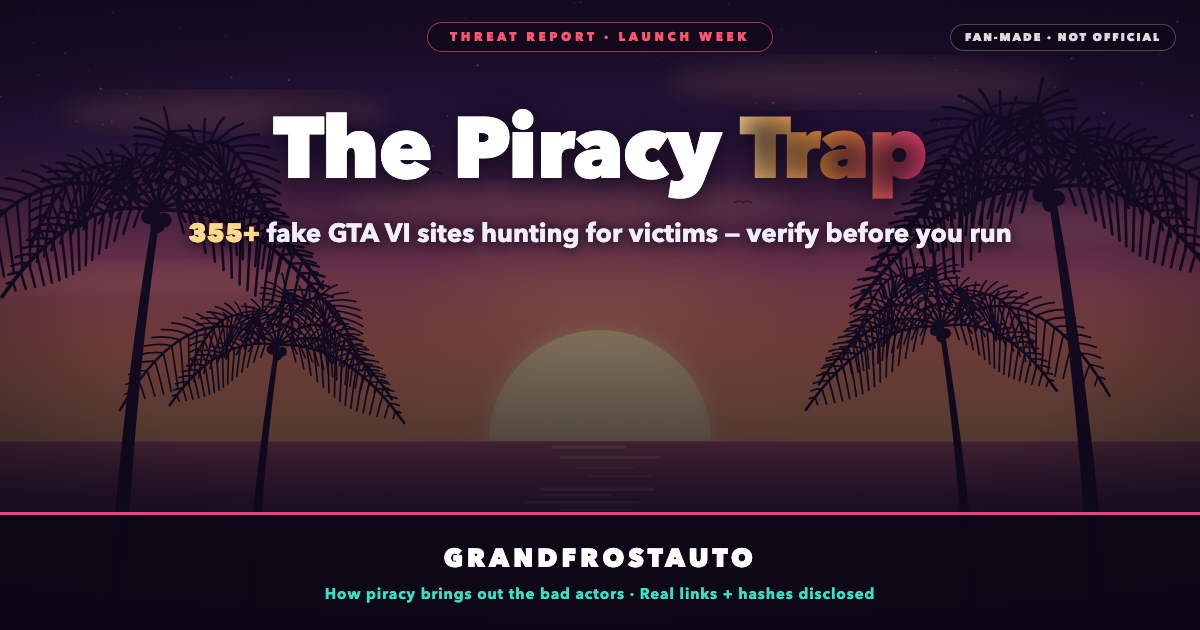
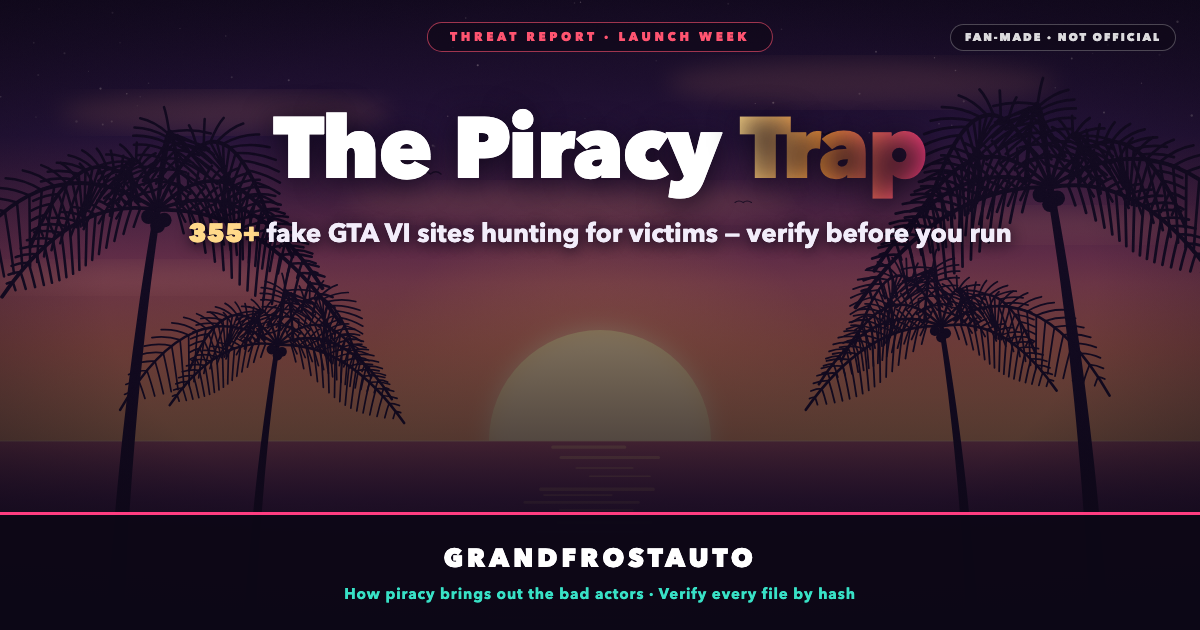
Take down EXE + magnet links: mirror hijacked, magnet blocked by Rockstar (Nov 25)
- Remove EXE download link (filevault.cybar.to mirror hijacked — no longer
  serves the hash-matched file) and the ~209 GB torrent magnet (blocked by
  Rockstar); remove .dlrow/.btn CSS now unused
- Add takedown notice to the verification panel and a Nov 25 timeline event;
  keep Cyberleek's published SHA-256 hashes + ZIP password as the sole
  verification anchors
- Remove GameDrive mirror-tracker source link (it lists mirrors)
- Update meta description, README, and OG card copy; re-render og-card.png
  and bump cache-buster to v=5

Changed region(s): [[0.2775, 0.9349, 0.74, 0.9651]]

diff --git a/index.html b/index.html
@@ -4,13 +4,13 @@
 <meta charset="UTF-8">
 <meta name="viewport" content="width=device-width, initial-scale=1.0">
 <title>The Piracy Trap — 355+ Fake GTA VI Sites Hunting for Victims | GrandFrostAuto</title>
-<meta name="description" content="Piracy doesn't just break copyright — it feeds an economy of predators. How 355+ fake GTA VI download sites hunt for victims with infostealers and ransomware, and how to verify the real files.">
+<meta name="description" content="Piracy doesn't just break copyright — it feeds an economy of predators. How 355+ fake GTA VI download sites hunt for victims with infostealers and ransomware, and how to verify files against the published hashes.">
 <meta property="og:type" content="article">
 <meta property="og:title" content="The Piracy Trap — 355+ Fake GTA VI Sites Hunting for Victims">
 <meta property="og:description" content="Where a free game is promised, malware is delivered. How piracy brings out the bad actors — and how to verify what you download.">
 <meta property="og:url" content="https://blackfrost-ai.github.io/GrandFrostAuto/">
-<meta property="og:image" content="https://blackfrost-ai.github.io/GrandFrostAuto/og-card.png?v=4">
-<meta property="og:image:secure_url" content="https://blackfrost-ai.github.io/GrandFrostAuto/og-card.png?v=4">
+<meta property="og:image" content="https://blackfrost-ai.github.io/GrandFrostAuto/og-card.png?v=5">
+<meta property="og:image:secure_url" content="https://blackfrost-ai.github.io/GrandFrostAuto/og-card.png?v=5">
 <meta property="og:image:type" content="image/png">
 <meta property="og:image:width" content="1200">
 <meta property="og:image:height" content="630">
@@ -18,7 +18,7 @@
 <meta name="twitter:card" content="summary_large_image">
 <meta name="twitter:title" content="The Piracy Trap — 355+ Fake GTA VI Sites Hunting for Victims">
 <meta name="twitter:description" content="Where a free game is promised, malware is delivered. How piracy brings out the bad actors — and how to verify what you download.">
-<meta name="twitter:image" content="https://blackfrost-ai.github.io/GrandFrostAuto/og-card.png?v=4">
+<meta name="twitter:image" content="https://blackfrost-ai.github.io/GrandFrostAuto/og-card.png?v=5">
 <meta name="twitter:image:alt" content="The Piracy Trap — 355+ fake GTA VI sites hunting for victims, over a Vice City sunset">
 <style>
   :root{
@@ -105,10 +105,7 @@
     padding:5px 16px;font-size:.68rem;font-weight:800;letter-spacing:.22em;text-transform:uppercase;margin-bottom:14px}
   .disclose h3{font-size:1.25rem;margin-bottom:10px}
   .disclose>p{color:var(--dim);font-size:.92rem}
-  .dlrow{display:flex;flex-wrap:wrap;gap:12px;margin:18px 0}
-  .btn{display:inline-block;text-decoration:none;font-weight:800;font-size:.9rem;border-radius:10px;padding:12px 22px;letter-spacing:.02em}
-  .btn.gold{background:var(--grad);color:#241028}
-  .btn.line{border:1.5px solid rgba(255,255,255,.35);color:#fff;background:rgba(13,7,22,.45)}
+  .statnote{margin:18px 0;font-size:.9rem;color:#e8e0f5}
   .hashrow{display:flex;flex-wrap:wrap;align-items:center;gap:10px;margin:12px 0}
   .hashrow .lbl{font-size:.72rem;font-weight:800;letter-spacing:.16em;color:var(--orange);min-width:110px}
   code.hash{flex:1;min-width:min(260px,100%);background:#0b0616;border:1px solid var(--line);border-radius:8px;
@@ -210,17 +207,14 @@
 
     <section id="verify">
       <div class="sec-kicker">Full Disclosure</div>
-      <h2>The real files, <span class="g">in the open</span></h2>
-      <p>We're publishing the actual download locations and Cyberleek's published hashes below — not to promote piracy, but because <b>secrecy is the scammer's best friend.</b> When the real anchors are public and verifiable, anyone can check a file against them in ten seconds, and the 355+ fakes lose their cover. Verification is the whole game.</p>
+      <h2>The verification anchors, <span class="g">in the open</span></h2>
+      <p>We're publishing Cyberleek's published hashes below — not to promote piracy, but because <b>secrecy is the scammer's best friend.</b> When the real anchors are public and verifiable, anyone can check a file against them in ten seconds, and the 355+ fakes lose their cover. Verification is the whole game.</p>
 
       <div class="disclose">
         <span class="tag">Community Archive · Not Official</span>
         <h3>Cyberleek's published release — the verification anchors</h3>
-        <p>These are the genuine locations from Cyberleek's release, disclosed so you can distinguish them from the fakes. The files are an Xbox Series&nbsp;X build — <b>not playable on PC</b> — preserved for archival and the open-source recomp projects. Downloading copyrighted material may be illegal where you live; that risk is yours. The malware risk is what this page exists to kill.</p>
-        <div class="dlrow">
-          <a class="btn gold" href="https://filevault.cybar.to/file/31" target="_blank" rel="noopener noreferrer">⬇ EXE build 1.0.2.1 (.zip)</a>
-          <a class="btn line" href="magnet:?xt=urn:btih:465d6a0eac381e68ca77115f44f19f0c968b9590&tr=udp://open.tracker.cl:1337/announce">🧲 ~209 GB build · magnet</a>
-        </div>
+        <div class="warnbox" style="margin-top:0">🚨 <b>Links taken down (Nov 25):</b> The EXE mirror we previously listed here was <b>hijacked</b> — the file it now serves does not match Cyberleek's published hash — and Rockstar has blocked the torrent magnet. We removed both on sight. <b>Any site still offering that mirror or magnet is serving something that is not the genuine leak.</b> The hashes below remain as the only trustworthy test of any copy you encounter.</div>
+        <p class="statnote">The release was an Xbox Series&nbsp;X build — <b>not playable on PC</b> — preserved for archival and the open-source recomp projects. Downloading copyrighted material may be illegal where you live; that risk is yours. The malware risk is what this page exists to kill.</p>
         <div class="hashrow"><span class="lbl">ZIP SHA-256</span><code class="hash" id="h1">7545a2f7fb4b399cf8850987f087ed9a4d8499ddb6d6c2d642fd60c27f569730</code><button class="copy" onclick="cp('h1',this)">Copy</button></div>
         <div class="hashrow"><span class="lbl">EXE SHA-256</span><code class="hash" id="h2">e95020b2fa4a721db3df59fdecf75621730ac559d8835252f6c3b658d5a08993</code><button class="copy" onclick="cp('h2',this)">Copy</button></div>
         <div class="hashrow"><span class="lbl">ZIP PASSWORD</span><code class="hash" id="h3">THANKYOUCYBERLEEK</code><button class="copy" onclick="cp('h3',this)">Copy</button></div>
@@ -239,6 +233,7 @@ Windows         certutil -hashfile &lt;file.zip&gt; SHA256</div>
         <div class="ev"><div class="when">Nov 19 · Launch</div><h3>GTA VI releases on consoles</h3><p>PS5 / Xbox Series X|S worldwide. No PC version announced — and the fake-site economy starts spinning up the same day.</p></div>
         <div class="ev"><div class="when">Nov 19 · Hours later</div><h3>Cyberleek drops the build</h3><p>A decrypted ~209 GB Xbox Series X build 1.0.2.1 hits torrent networks — minus the main executable, held behind a countdown.</p></div>
         <div class="ev"><div class="when">Nov 23 · ~20:08</div><h3>"XMAS CAME EARLY"</h3><p>The EXE drops ~3 hours ahead of the timer, free, with published SHA-256 checksums. The fakes now have a real event to impersonate.</p></div>
+        <div class="ev"><div class="when">Nov 25 · Takedown</div><h3>Magnet blocked, EXE mirror hijacked</h3><p>Rockstar blocks the torrent magnet, and the EXE mirror starts serving a file that does not match the published hash. Both links are pulled from this page on sight — proof that any mirror can turn hostile without warning.</p></div>
         <div class="ev"><div class="when">Now</div><h3>The recomp era — and the hunt</h3><p>Open-source projects race toward a native PC port via static recompilation, while 355+ fake domains keep harvesting victims who just want to play.</p></div>
       </div>
     </section>
@@ -250,7 +245,6 @@ Windows         certutil -hashfile &lt;file.zip&gt; SHA256</div>
         <a class="srclink" href="https://www.rockstargames.com/VI" target="_blank" rel="noopener noreferrer"><b>Rockstar — official GTA VI</b><span>rockstargames.com/VI — the real launch, console-only</span></a>
         <a class="srclink" href="https://cyberleek.org/" target="_blank" rel="noopener noreferrer"><b>Cyberleek — official site</b><span>cyberleek.org — announcements &amp; published hashes</span></a>
         <a class="srclink" href="https://gta6recomp.com/post/cyberleek-releases-gta6-xbox-exe" target="_blank" rel="noopener noreferrer"><b>GTA6 Recomp — EXE drop post</b><span>Cyberleek's hashes + verification guide</span></a>
-        <a class="srclink" href="https://gamedrive.org/grand-theft-auto-vi-gta-6-cyberleek-leaks/" target="_blank" rel="noopener noreferrer"><b>GameDrive leak tracker</b><span>mirrors, manifests, community archive</span></a>
       </div>
       <p style="margin-top:20px;font-size:.84rem;color:var(--faint)">The 355+ figure reflects fake domains catalogued by security researchers and community trackers during launch week; it is a floor, not a ceiling — new lookalike domains appear daily. Treat every "free GTA&nbsp;6 PC" offer as hostile until proven otherwise.</p>
     </section>

diff --git a/og-card.html b/og-card.html
@@ -26,6 +26,6 @@
 </div>
 <div class="bar">
   <h2>GrandFrostAuto</h2>
-  <p>How piracy brings out the bad actors · Real links + hashes disclosed</p>
+  <p>How piracy brings out the bad actors · Verify every file by hash</p>
 </div>
 </body></html>

diff --git a/README.md b/README.md
@@ -1,8 +1,12 @@
 # GrandFrostAuto 🌴❄
 
-**The Piracy Trap** — a fan-made community threat report on the 355+ fake GTA VI download sites hunting for victims during launch week: how piracy draws infostealer/ransomware operators, the kill chain, red flags, and full disclosure of the real Cyberleek download links + published SHA-256 hashes as verification anchors against malware. No pricing; not a storefront.
+**The Piracy Trap** — a fan-made community threat report on the 355+ fake GTA VI download sites hunting for victims during launch week: how piracy draws infostealer/ransomware operators, the kill chain, red flags, and Cyberleek's published SHA-256 hashes disclosed as verification anchors against malware. No pricing; not a storefront.
 
 **Live:** https://blackfrost-ai.github.io/GrandFrostAuto/
+
+## Update — links taken down (Nov 25, 2026)
+
+The EXE mirror previously disclosed here was **hijacked** (the file it serves no longer matches Cyberleek's published hash), and **Rockstar has blocked the torrent magnet**. Both download links were removed from the article on sight. The published hashes remain as verification anchors — any copy that doesn't match them, character-for-character, is not the genuine release.
 
 ## Files
 
@@ -14,4 +18,4 @@
 
 The previous launch-hub design lives in git history (commit `eb59452` and earlier).
 
-Not affiliated with Rockstar Games, Take-Two, or Cyberleek. All key art is original fan artwork. Links are disclosed for verification and harm-reduction.
+Not affiliated with Rockstar Games, Take-Two, or Cyberleek. All key art is original fan artwork. Hashes are disclosed for verification and harm-reduction.
